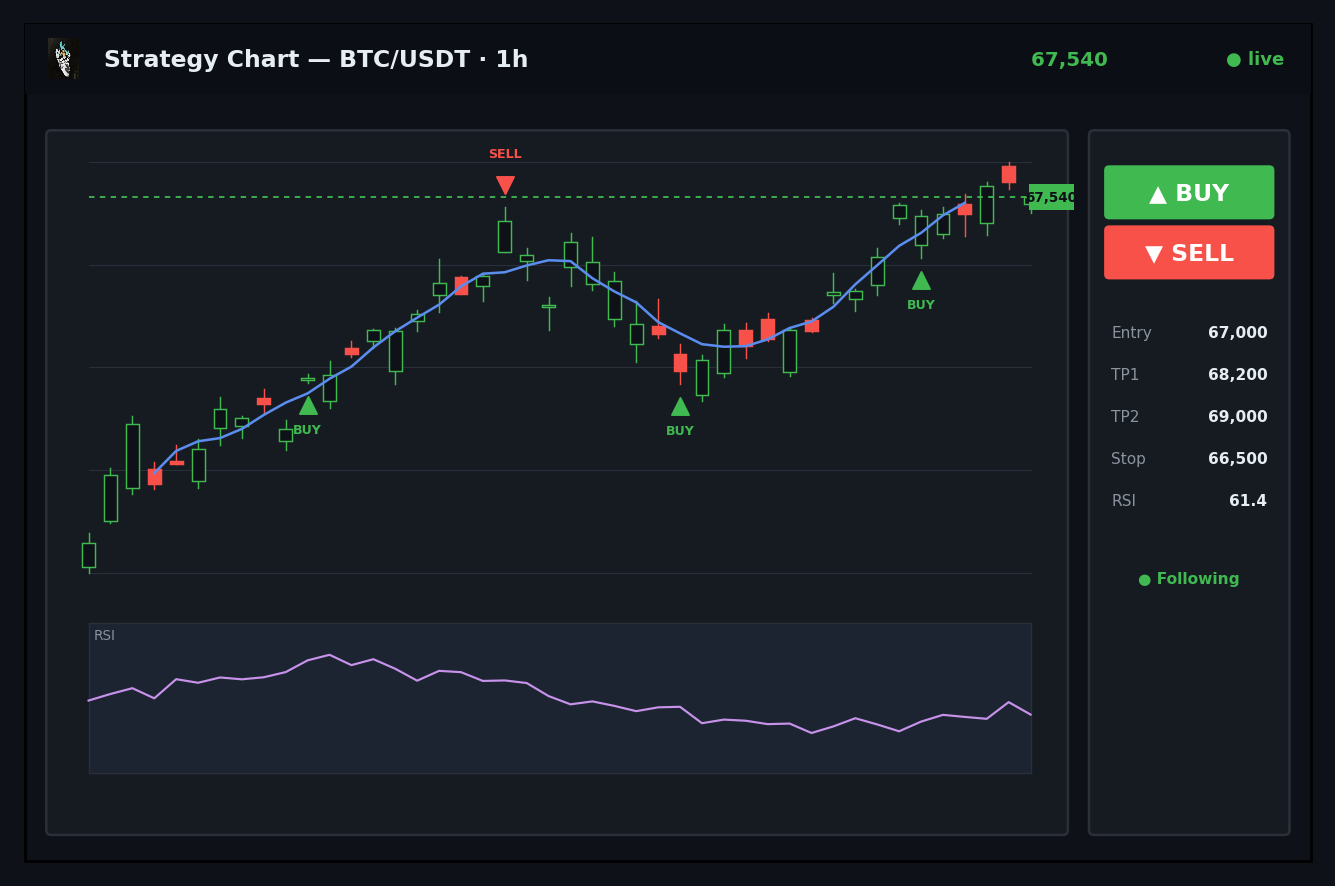
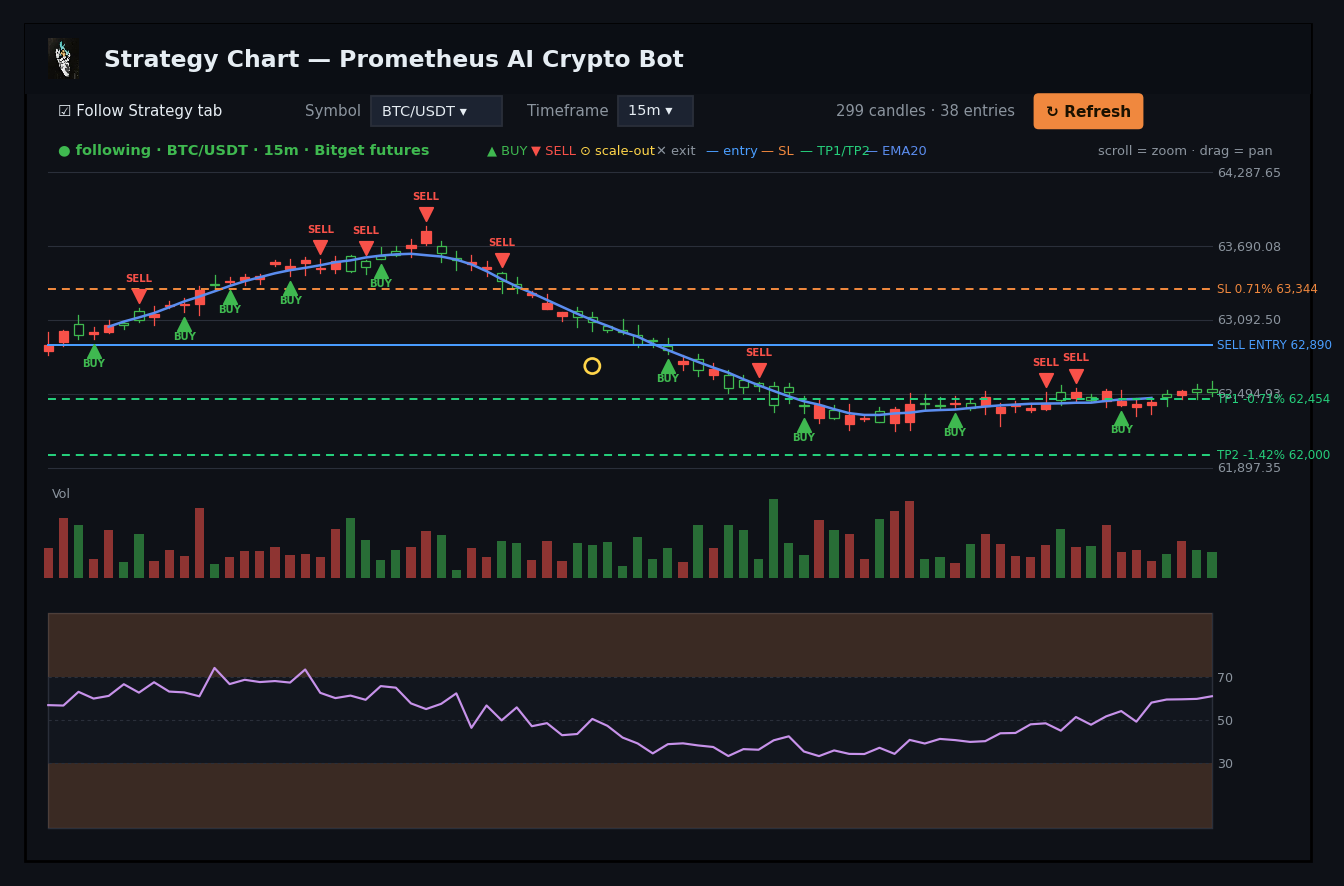
Marketing: realistic Strategy Chart mockup + 5 chart reels (reel_26..30)
- Rebuild render_chart to match the real Strategy Chart window: toolbar (Follow
  Strategy tab / Symbol / 15m / 299 candles · 38 entries / Refresh), legend row,
  EMA20, BUY/SELL + scale-out markers, entry/SL/TP1/TP2 lines + right price axis,
  volume pane, RSI pane with shaded OB/OS bands.
- CFGS_CHART: 5 profit-led reels on that chart, varied font colors/captions ->
  organic/images/reel_26..30.png.

diff --git a/trading_bot/make_mockup.py b/trading_bot/make_mockup.py
@@ -247,73 +247,110 @@ def _btn(ax, x, y, w, h, text, fc, tc="white", fs=11):
 
 
 def render_chart(out=None):
+    """Faithful Strategy Chart window: toolbar + legend, candles with EMA20 and
+    BUY/SELL markers, entry/SL/TP1/TP2 level lines + right price axis, a volume
+    pane, and an RSI pane with shaded overbought/oversold bands."""
     import numpy as np
     out = out or os.path.join(HERE, "gui_chart.png")
+    BLUE = "#4a9eff"; EMAB = "#5b8def"; SLC = "#f0883e"; TPC = "#26d07c"; RSIC = "#c792ea"
     fig, ax = _new_ax()
-    _hdr(ax, "Strategy Chart — BTC/USDT · 1h")
-    ax.text(11.0, 8.13, "67,540  ", color=GREEN, fontsize=11, fontweight="bold", ha="right", va="center", zorder=5)
+    _hdr(ax, "Strategy Chart — Prometheus AI Crypto Bot", right="")
 
-    # right control rail
-    _panel(ax, 10.7, 0.4, 1.95, 7.0)
-    _btn(ax, 10.85, 6.55, 1.65, 0.5, "▲ BUY", GREEN, fs=13)
-    _btn(ax, 10.85, 5.95, 1.65, 0.5, "▼ SELL", RED, fs=13)
-    for i, (lab, val) in enumerate([("Entry", "67,000"), ("TP1", "68,200"), ("TP2", "69,000"),
-                                    ("Stop", "66,500"), ("RSI", "61.4")]):
-        ax.text(10.9, 5.4 - i * 0.42, lab, fontsize=8.5, color=DIM, va="center", zorder=4)
-        ax.text(12.45, 5.4 - i * 0.42, val, fontsize=8.5, color=TXT, fontweight="bold", ha="right", va="center", zorder=4)
-    ax.text(11.67, 2.9, "● Following", color=GREEN, fontsize=8.5, fontweight="bold", ha="center", zorder=4)
+    # --- toolbar row ---
+    ax.text(0.45, 7.62, "☑ Follow Strategy tab", fontsize=8.3, color=TXT, va="center", zorder=5)
+    ax.text(2.9, 7.62, "Symbol", fontsize=8.3, color=DIM, va="center", zorder=5)
+    ax.add_patch(Rectangle((3.55, 7.46), 1.3, 0.3, fc=ELEV, ec=BORDER, lw=1, zorder=3))
+    ax.text(3.66, 7.62, "BTC/USDT ▾", fontsize=8, color=TXT, va="center", zorder=4)
+    ax.text(5.1, 7.62, "Timeframe", fontsize=8.3, color=DIM, va="center", zorder=5)
+    ax.add_patch(Rectangle((6.0, 7.46), 0.75, 0.3, fc=ELEV, ec=BORDER, lw=1, zorder=3))
+    ax.text(6.1, 7.62, "15m ▾", fontsize=8, color=TXT, va="center", zorder=4)
+    ax.text(9.95, 7.62, "299 candles · 38 entries", fontsize=8.2, color=DIM, ha="right", va="center", zorder=5)
+    _btn(ax, 10.15, 7.45, 1.05, 0.32, "↻ Refresh", ACCENT, "#1a1100", fs=8.5)
 
-    # price + rsi panes
-    _panel(ax, 0.35, 0.4, 10.1, 7.0)
-    px0, px1, py0, py1 = 0.75, 10.1, 3.0, 7.1     # price pane
-    ry0, ry1 = 1.0, 2.5                           # rsi pane
-    n = 44
-    rng = np.random.default_rng(11)
-    drift = np.linspace(0, 18, n)
-    noise = np.cumsum(rng.normal(0, 1.1, n))
-    base = 100 + drift + noise
-    op = base + rng.normal(0, 0.5, n)
-    cl = base + rng.normal(0.5, 0.6, n)
-    hi = np.maximum(op, cl) + np.abs(rng.normal(0, 0.5, n))
-    lo = np.minimum(op, cl) - np.abs(rng.normal(0, 0.5, n))
-    pmin, pmax = lo.min(), hi.max()
+    # --- legend row ---
+    ax.text(0.45, 7.22, "● following · BTC/USDT · 15m · Bitget futures",
+            fontsize=8, color=GREEN, fontweight="bold", va="center", zorder=5)
+    leg = [("▲ BUY", GREEN), ("▼ SELL", RED), ("⊙ scale-out", "#ffd54a"), ("✕ exit", DIM),
+           ("— entry", BLUE), ("— SL", SLC), ("— TP1/TP2", TPC), ("— EMA20", EMAB)]
+    lx = 4.7
+    for t, c in leg:
+        ax.text(lx, 7.22, t, fontsize=7.2, color=c, va="center", zorder=5)
+        lx += 0.18 + 0.052 * len(t)
+    ax.text(12.5, 7.22, "scroll = zoom · drag = pan", fontsize=7.2, color=DIM, ha="right", va="center", zorder=5)
+
+    px0, px1 = 0.35, 11.9        # plot left/right (right margin = axis labels)
+    py0, py1 = 4.05, 7.0         # price pane
+    vy0, vy1 = 2.95, 3.85        # volume pane
+    ry0, ry1 = 0.45, 2.6         # rsi pane
+
+    # --- synth candles: rise, fall, then sideways (like the screenshot) ---
+    n = 78
+    rng = np.random.default_rng(7)
+    seg = np.concatenate([np.linspace(0, 11, 26), np.linspace(11, -2, 28), np.linspace(-2, 0.5, n - 54)])
+    base = 62900 + seg * 100 + np.cumsum(rng.normal(0, 28, n))
+    op = base + rng.normal(0, 35, n)
+    cl = base + rng.normal(0, 45, n)
+    hi = np.maximum(op, cl) + np.abs(rng.normal(40, 30, n))
+    lo = np.minimum(op, cl) - np.abs(rng.normal(40, 30, n))
+    pmin, pmax = 61897, 64288     # match the screenshot's axis
 
     def X(i): return px0 + (px1 - px0) * i / (n - 1)
-    def Y(p): return py0 + (py1 - py0) * (p - pmin) / (pmax - pmin)
+    def Yp(p): return py0 + (py1 - py0) * (p - pmin) / (pmax - pmin)
 
-    # gridlines
-    for f in (0, .25, .5, .75, 1):
-        ax.plot([px0, px1], [py0 + (py1 - py0) * f] * 2, color=BORDER, lw=0.6, zorder=2)
-    bw = (px1 - px0) / n * 0.6
+    # price gridlines + right axis labels
+    for p in (64287.65, 63690.08, 63092.50, 62494.93, 61897.35):
+        ax.plot([px0, px1], [Yp(p)] * 2, color=BORDER, lw=0.6, zorder=2)
+        ax.text(px1 + 0.05, Yp(p), f"{p:,.2f}", fontsize=7, color=DIM, va="center", zorder=4)
+    bw = (px1 - px0) / n * 0.62
     for i in range(n):
-        up = cl[i] >= op[i]
-        col = GREEN if up else RED
-        ax.plot([X(i), X(i)], [Y(lo[i]), Y(hi[i])], color=col, lw=0.8, zorder=3)
-        y1, y2 = Y(min(op[i], cl[i])), Y(max(op[i], cl[i]))
-        ax.add_patch(Rectangle((X(i) - bw / 2, y1), bw, max(0.02, y2 - y1),
-                               fc=(BG if up else col), ec=col, lw=0.8, zorder=3))
-    # EMA
-    ema = np.convolve(cl, np.ones(6) / 6, mode="same")
-    ax.plot([X(i) for i in range(3, n - 3)], [Y(ema[i]) for i in range(3, n - 3)],
-            color="#5b8def", lw=1.4, zorder=4)
-    # BUY/SELL markers
-    for i, kind in [(10, "B"), (19, "S"), (27, "B"), (38, "B")]:
-        if kind == "B":
-            ax.scatter(X(i), Y(lo[i]) - 0.22, marker="^", s=90, color=GREEN, zorder=5)
-            ax.text(X(i), Y(lo[i]) - 0.5, "BUY", color=GREEN, fontsize=7, fontweight="bold", ha="center", zorder=5)
-        else:
-            ax.scatter(X(i), Y(hi[i]) + 0.22, marker="v", s=90, color=RED, zorder=5)
-            ax.text(X(i), Y(hi[i]) + 0.5, "SELL", color=RED, fontsize=7, fontweight="bold", ha="center", zorder=5)
-    # last price line + tag
-    ax.plot([px0, px1], [Y(cl[-1])] * 2, color=GREEN, lw=1, ls=(0, (3, 3)), zorder=4)
-    ax.add_patch(Rectangle((px1 - 0.02, Y(cl[-1]) - 0.13), 0.45, 0.26, fc=GREEN, ec="none", zorder=5))
-    ax.text(px1 + 0.2, Y(cl[-1]), "67,540", color=BG, fontsize=7.5, fontweight="bold", ha="center", va="center", zorder=6)
-    # RSI pane
-    ax.add_patch(Rectangle((px0, ry0), px1 - px0, ry1 - ry0, fc=ELEV, ec=BORDER, lw=0.8, zorder=2))
-    ax.text(px0 + 0.05, ry1 - 0.12, "RSI", fontsize=7.5, color=DIM, va="center", zorder=4)
-    rsi = 50 + 22 * np.sin(np.linspace(0, 6, n)) + rng.normal(0, 4, n)
-    ax.plot([X(i) for i in range(n)], [ry0 + (ry1 - ry0) * np.clip(rsi[i], 0, 100) / 100 for i in range(n)],
-            color="#c792ea", lw=1.2, zorder=4)
+        up = cl[i] >= op[i]; col = GREEN if up else RED
+        ax.plot([X(i), X(i)], [Yp(lo[i]), Yp(hi[i])], color=col, lw=0.7, zorder=3)
+        y1, y2 = Yp(min(op[i], cl[i])), Yp(max(op[i], cl[i]))
+        ax.add_patch(Rectangle((X(i) - bw / 2, y1), bw, max(0.015, y2 - y1),
+                               fc=(BG if up else col), ec=col, lw=0.7, zorder=3))
+    ema = np.convolve(cl, np.ones(9) / 9, mode="same")
+    ax.plot([X(i) for i in range(4, n - 4)], [Yp(ema[i]) for i in range(4, n - 4)], color=EMAB, lw=1.4, zorder=4)
+
+    # level lines + right labels
+    for price, col, dash, lab in [(63344, SLC, (0, (4, 3)), "SL 0.71% 63,344"),
+                                  (62890, BLUE, None, "SELL ENTRY 62,890"),
+                                  (62454, TPC, (0, (4, 3)), "TP1 -0.71% 62,454"),
+                                  (62000, TPC, (0, (4, 3)), "TP2 -1.42% 62,000")]:
+        ax.plot([px0, px1], [Yp(price)] * 2, color=col, lw=1.1, ls=(dash or "-"), zorder=4)
+        ax.text(px1 + 0.05, Yp(price), lab, fontsize=6.6, color=col, va="center", zorder=5)
+
+    # BUY/SELL markers at swing points
+    buys = [3, 9, 12, 16, 22, 41, 50, 60, 71]
+    sells = [6, 18, 21, 25, 30, 47, 66, 68]
+    for i in buys:
+        ax.scatter(X(i), Yp(lo[i]) - 0.12, marker="^", s=55, color=GREEN, zorder=5)
+        ax.text(X(i), Yp(lo[i]) - 0.27, "BUY", color=GREEN, fontsize=5.6, fontweight="bold", ha="center", zorder=5)
+    for i in sells:
+        ax.scatter(X(i), Yp(hi[i]) + 0.12, marker="v", s=55, color=RED, zorder=5)
+        ax.text(X(i), Yp(hi[i]) + 0.27, "SELL", color=RED, fontsize=5.6, fontweight="bold", ha="center", zorder=5)
+    # a scale-out ring near the lows
+    ax.scatter(X(36), Yp(lo[36]) - 0.35, marker="o", s=70, facecolors="none", edgecolors="#ffd54a", lw=1.5, zorder=5)
+
+    # --- volume pane ---
+    ax.text(px0 + 0.04, vy1 - 0.06, "Vol", fontsize=7, color=DIM, va="center", zorder=4)
+    vmax = np.abs(cl - op).max() + 60
+    for i in range(n):
+        vh = (vy1 - vy0) * (abs(cl[i] - op[i]) + rng.uniform(10, 60)) / vmax
+        col = GREEN if cl[i] >= op[i] else RED
+        ax.add_patch(Rectangle((X(i) - bw / 2, vy0), bw, vh, fc=col, ec="none", alpha=0.55, zorder=3))
+
+    # --- RSI pane with shaded OB/OS bands ---
+    ax.add_patch(Rectangle((px0, ry0), px1 - px0, ry1 - ry0, fc="#12161e", ec=BORDER, lw=0.8, zorder=2))
+
+    def Yr(v): return ry0 + (ry1 - ry0) * np.clip(v, 0, 100) / 100
+    ax.add_patch(Rectangle((px0, Yr(70)), px1 - px0, ry1 - Yr(70), fc=SLC, ec="none", alpha=0.18, zorder=2))
+    ax.add_patch(Rectangle((px0, ry0), px1 - px0, Yr(30) - ry0, fc=SLC, ec="none", alpha=0.18, zorder=2))
+    for lv in (70, 50, 30):
+        ax.plot([px0, px1], [Yr(lv)] * 2, color=BORDER, lw=0.6, ls=(0, (3, 3)), zorder=3)
+        ax.text(px1 + 0.05, Yr(lv), str(lv), fontsize=7, color=DIM, va="center", zorder=4)
+    rsi = 52 + 16 * np.sin(np.linspace(0.5, 7, n)) + rng.normal(0, 3.5, n)
+    ax.plot([X(i) for i in range(n)], [Yr(rsi[i]) for i in range(n)], color=RSIC, lw=1.2, zorder=4)
+
     fig.savefig(out, dpi=130, bbox_inches="tight", facecolor=BG); plt.close(fig)
     print(f"wrote {out}")
 

diff --git a/trading_bot/make_reel.py b/trading_bot/make_reel.py
@@ -387,6 +387,16 @@ CFGS_15 = [
 ]
 
 
+# 5 more — the realistic Strategy Chart window, varied colours + captions.
+CFGS_CHART = [
+    {"color": "#3fb950", "window": "gui_chart.png", "hook": "Watch it\ntrade live", "sub": "BUY ▲ and SELL ▼ — fired automatically.", "big": "+$214", "label": "on BTC today*", "extra": "38 entries today · long + short"},
+    {"color": "#4a9eff", "window": "gui_chart.png", "hook": "Catch the swing\nevery time", "sub": "EMA20 + RSI crossover, executed for you.", "big": "+$188", "label": "on ETH*", "extra": "entry · SL · TP1 · TP2 placed for you"},
+    {"color": "#ffd54a", "window": "gui_chart.png", "hook": "Up or down —\nit profits", "sub": "Long & short on Bitget futures.", "big": "+$152", "label": "on SOL*", "extra": "BTC +$214 · ETH +$188 · SOL +$152"},
+    {"color": "#ff6fb5", "window": "gui_chart.png", "hook": "Never miss\na setup", "sub": "The bot watches the charts 24/7.", "big": "+$755", "label": "today*", "extra": "5 coins green: BTC ETH SOL XRP ADA"},
+    {"color": "#38bdf8", "window": "gui_chart.png", "hook": "Pro signals,\nautomated", "sub": "Scale-outs, breakeven & exits — handled.", "big": "+$104", "label": "on XRP*", "extra": "299 candles scanned · 38 entries"},
+]
+
+
 if __name__ == "__main__":
     import make_mockup
     make_mockup.render(os.path.join(HERE, "gui_mockup_safe.png"), safe=True)
@@ -403,6 +413,8 @@ if __name__ == "__main__":
     for i, cfg in enumerate(CFGS, 1):
         build_card(os.path.join(ORG_IMG, f"reel_{i:02d}.png"), cfg)
     for i, cfg in enumerate(CFGS_15, 11):   # reel_11..reel_25 (varied window + color)
+        build_card(os.path.join(ORG_IMG, f"reel_{i:02d}.png"), cfg)
+    for i, cfg in enumerate(CFGS_CHART, 26):  # reel_26..reel_30 (Strategy Chart)
         build_card(os.path.join(ORG_IMG, f"reel_{i:02d}.png"), cfg)
     # --- paid-ads-safe (feature-led, no profit claims) ---
     for i, cfg in enumerate(CFGS_SAFE, 1):

diff --git a/Marketing Docs/social/README.md b/Marketing Docs/social/README.md
@@ -12,7 +12,7 @@ social/
 │   ├── images/  reel_safe_01–08.png      feature-led, NO profit claims, demo UI
 │   └── video/   reel_safe_01–08.mp4      1080×1920 · 6s · TikTok/IG safe-zone
 └── organic/                    ⚠ organic posts only (profit-led — don't boost)
-    ├── images/  reel_01–25.png, tiktok_reel.png, facebook_reel.png, square_post.png
+    ├── images/  reel_01–30.png, tiktok_reel.png, facebook_reel.png, square_post.png
     └── video/   reel.mp4                 1080×1920 · 5s · profit ticker
 ```
 
